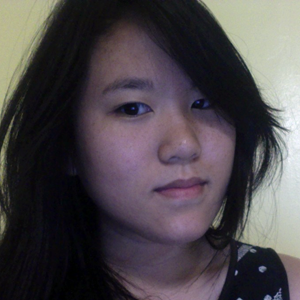
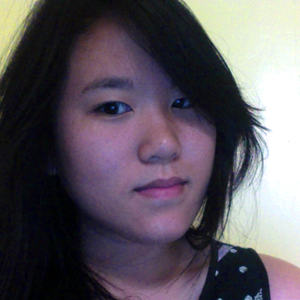
make background smaller, remove extra images, and revise some styling

diff --git a/index.html b/index.html
@@ -47,7 +47,7 @@
     <div class="container-fluid container-image">
         <div class="row-fluid content-image text-center">
             <div class="col-sm-12">
-                <img src="images/profile4.png" class="img-circle img-profile">
+                <img src="images/profile.png" class="img-circle img-profile">
             </div>
         </div>
     </div>

diff --git a/css/styles.css b/css/styles.css
@@ -4,6 +4,8 @@ html {
 }
 body {
     background-color: #fafafa;
+    background-position: center;
+    background-size: cover;
     font-family: 'Roboto', sans-serif;
     color: #212121;
 }
